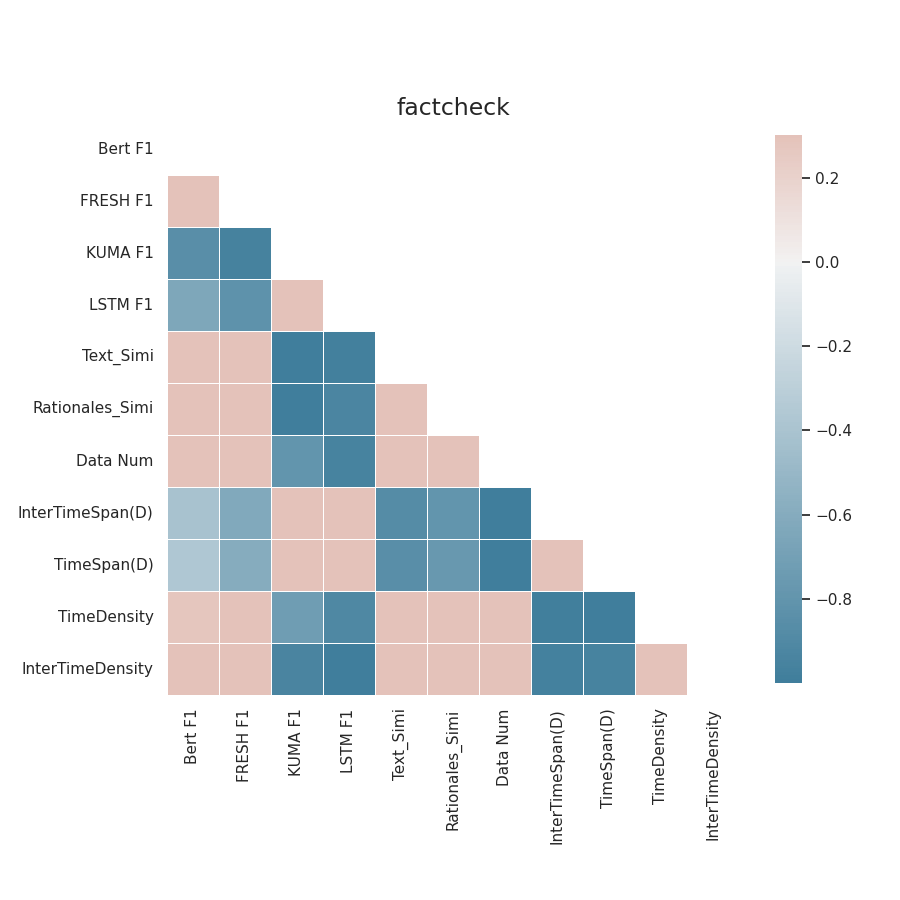
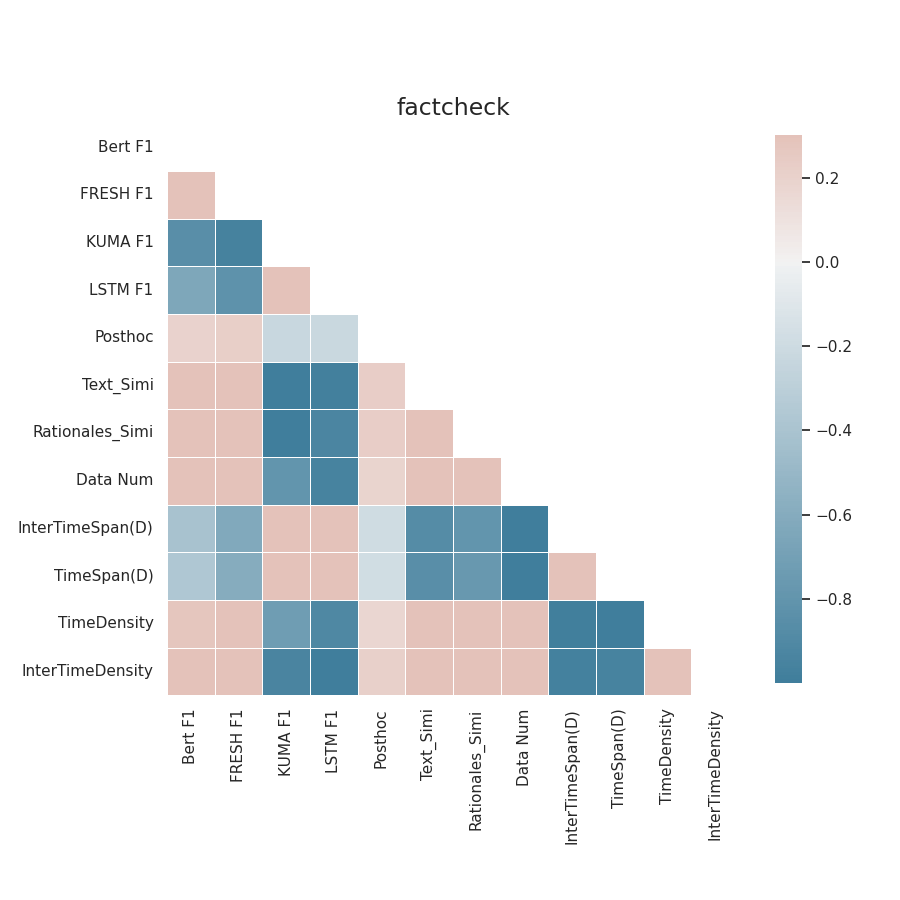
m

diff --git a/saved_everything/post_analysis.py b/saved_everything/post_analysis.py
@@ -54,7 +54,48 @@ for i, task in enumerate(task_list):
         else:
             pass
 
-    data_list = [predictive, full_similarity_JS_TOPIC, rationales_SAtopk_similarity_JS_TOPIC, data_stat]
+
+    ##### posthoc
+    def json2df(df, domain):
+        df = df[['scaled attention']].rename(columns={'scaled attention': 'Posthoc'})
+
+        list_of_list = []
+        for col in range(0, len(df.columns)):  # the range length equals to the number of attributes, if remove ig
+            rationales_sufficiency = df.iloc[0, col].get('mean')
+            rationales_comprehensiveness = df.iloc[1, col].get('mean')
+            rationales_AOPCsufficiency = df.iloc[2, col].get('mean')
+            rationales_AOPCcomprehensiveness = df.iloc[3, col].get('mean')
+            four_eval_metrics = [rationales_sufficiency, rationales_comprehensiveness,
+                                 rationales_AOPCsufficiency, rationales_AOPCcomprehensiveness]
+            list_of_list.append(four_eval_metrics)
+        df_tf = pd.DataFrame.from_records(list_of_list).transpose()
+        df_tf.columns = df.columns  # ['random','scaled_attention','attention','ig','lime','gradients','deeplift']
+
+        df_tf['Rationales_metrics'] = ['Sufficiency', 'Comprehensiveness', 'AOPC_sufficiency', 'AOPC_comprehensiveness']
+        df_tf['Domain'] = str(domain)
+        df_tf = df_tf.set_index('Rationales_metrics')
+        return df_tf
+
+
+    for fname in os.listdir('../posthoc_results/' + str(task_name) + '/'):
+        if 'topk' in fname and 'description.json' in fname:
+            if 'ood1' in fname:
+                ood1_path = os.path.join('../posthoc_results', str(task_name), fname)
+            elif 'ood2' in fname:
+                ood2_path = os.path.join('../posthoc_results', str(task_name), fname)
+            else:
+                indomain_path = os.path.join('../posthoc_results', str(task_name), fname)
+    json = pd.read_json(indomain_path)
+    df = json2df(json, 'InDomain')
+    OOD1 = pd.read_json(ood1_path)
+    df1 = json2df(OOD1, 'OOD1')
+    OOD2 = pd.read_json(ood2_path)
+    df2 = json2df(OOD2, 'OOD2')
+    Posthoc = pd.concat([df, df1, df2], ignore_index=False)
+
+
+
+    data_list = [predictive, Posthoc, full_similarity_JS_TOPIC, rationales_SAtopk_similarity_JS_TOPIC, data_stat]
     bigtable = reduce(lambda left, right: pd.merge(left, right, on=['Domain'],
                                                    how='outer'), data_list)
     print(bigtable)
